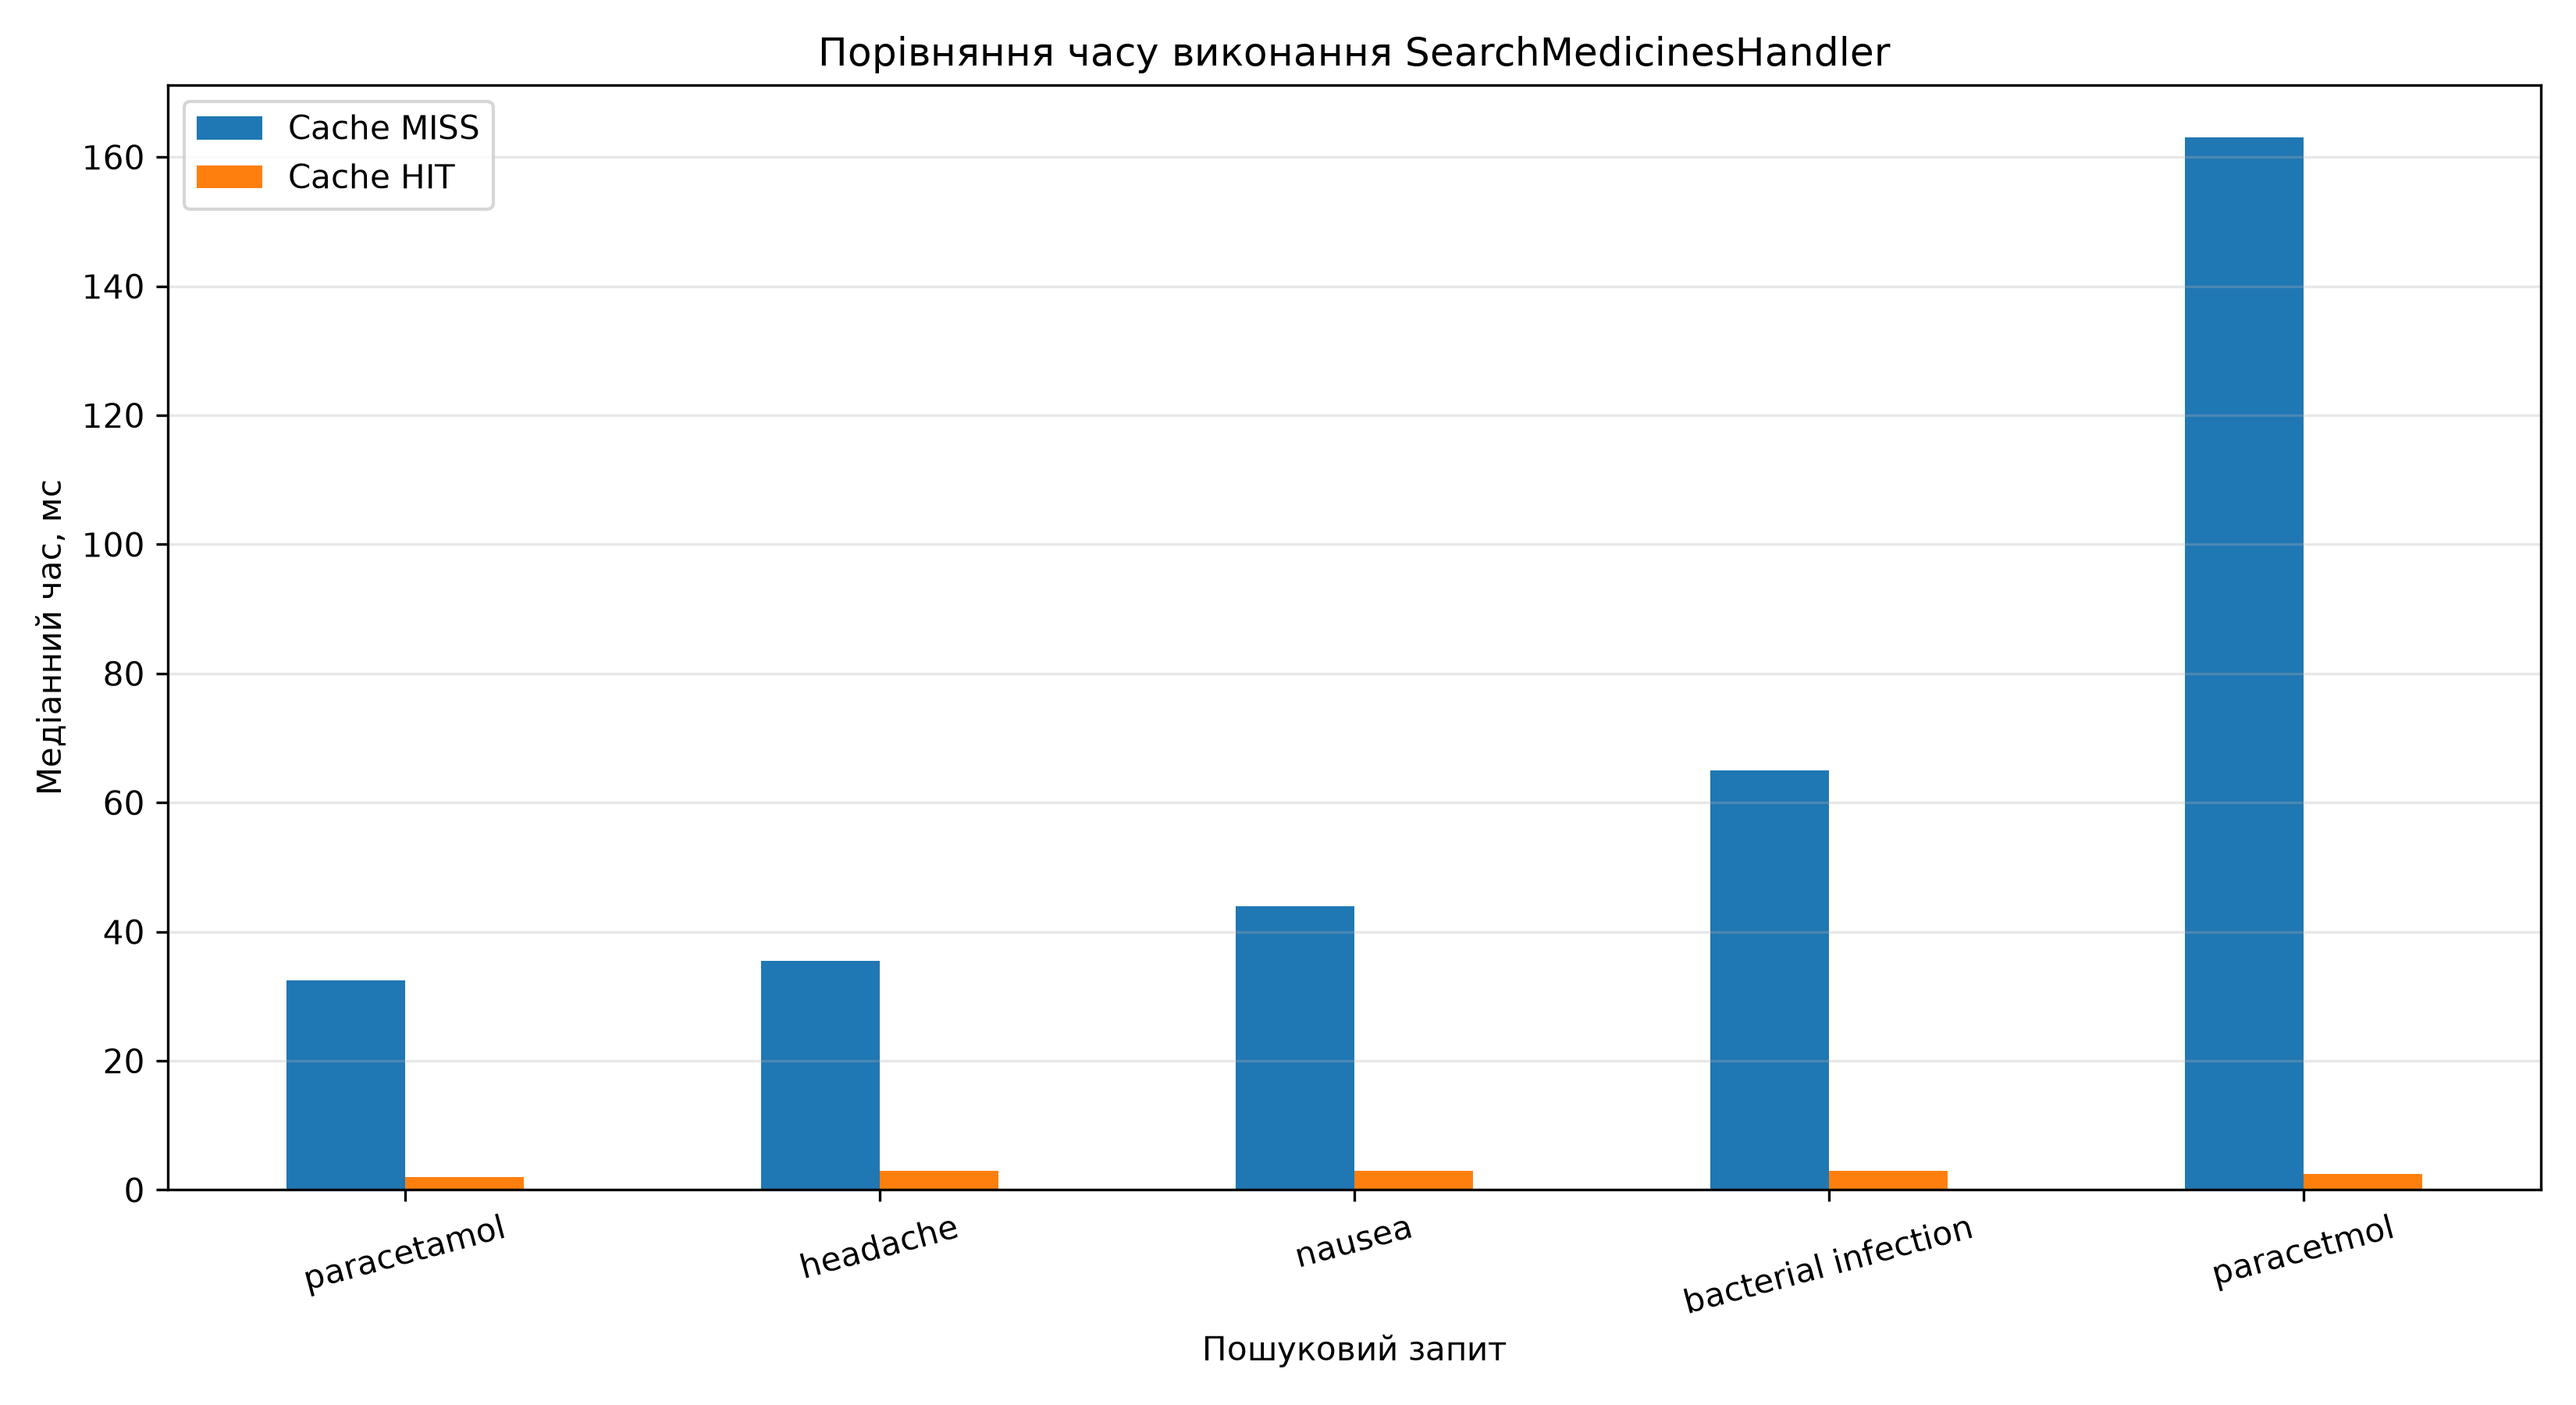
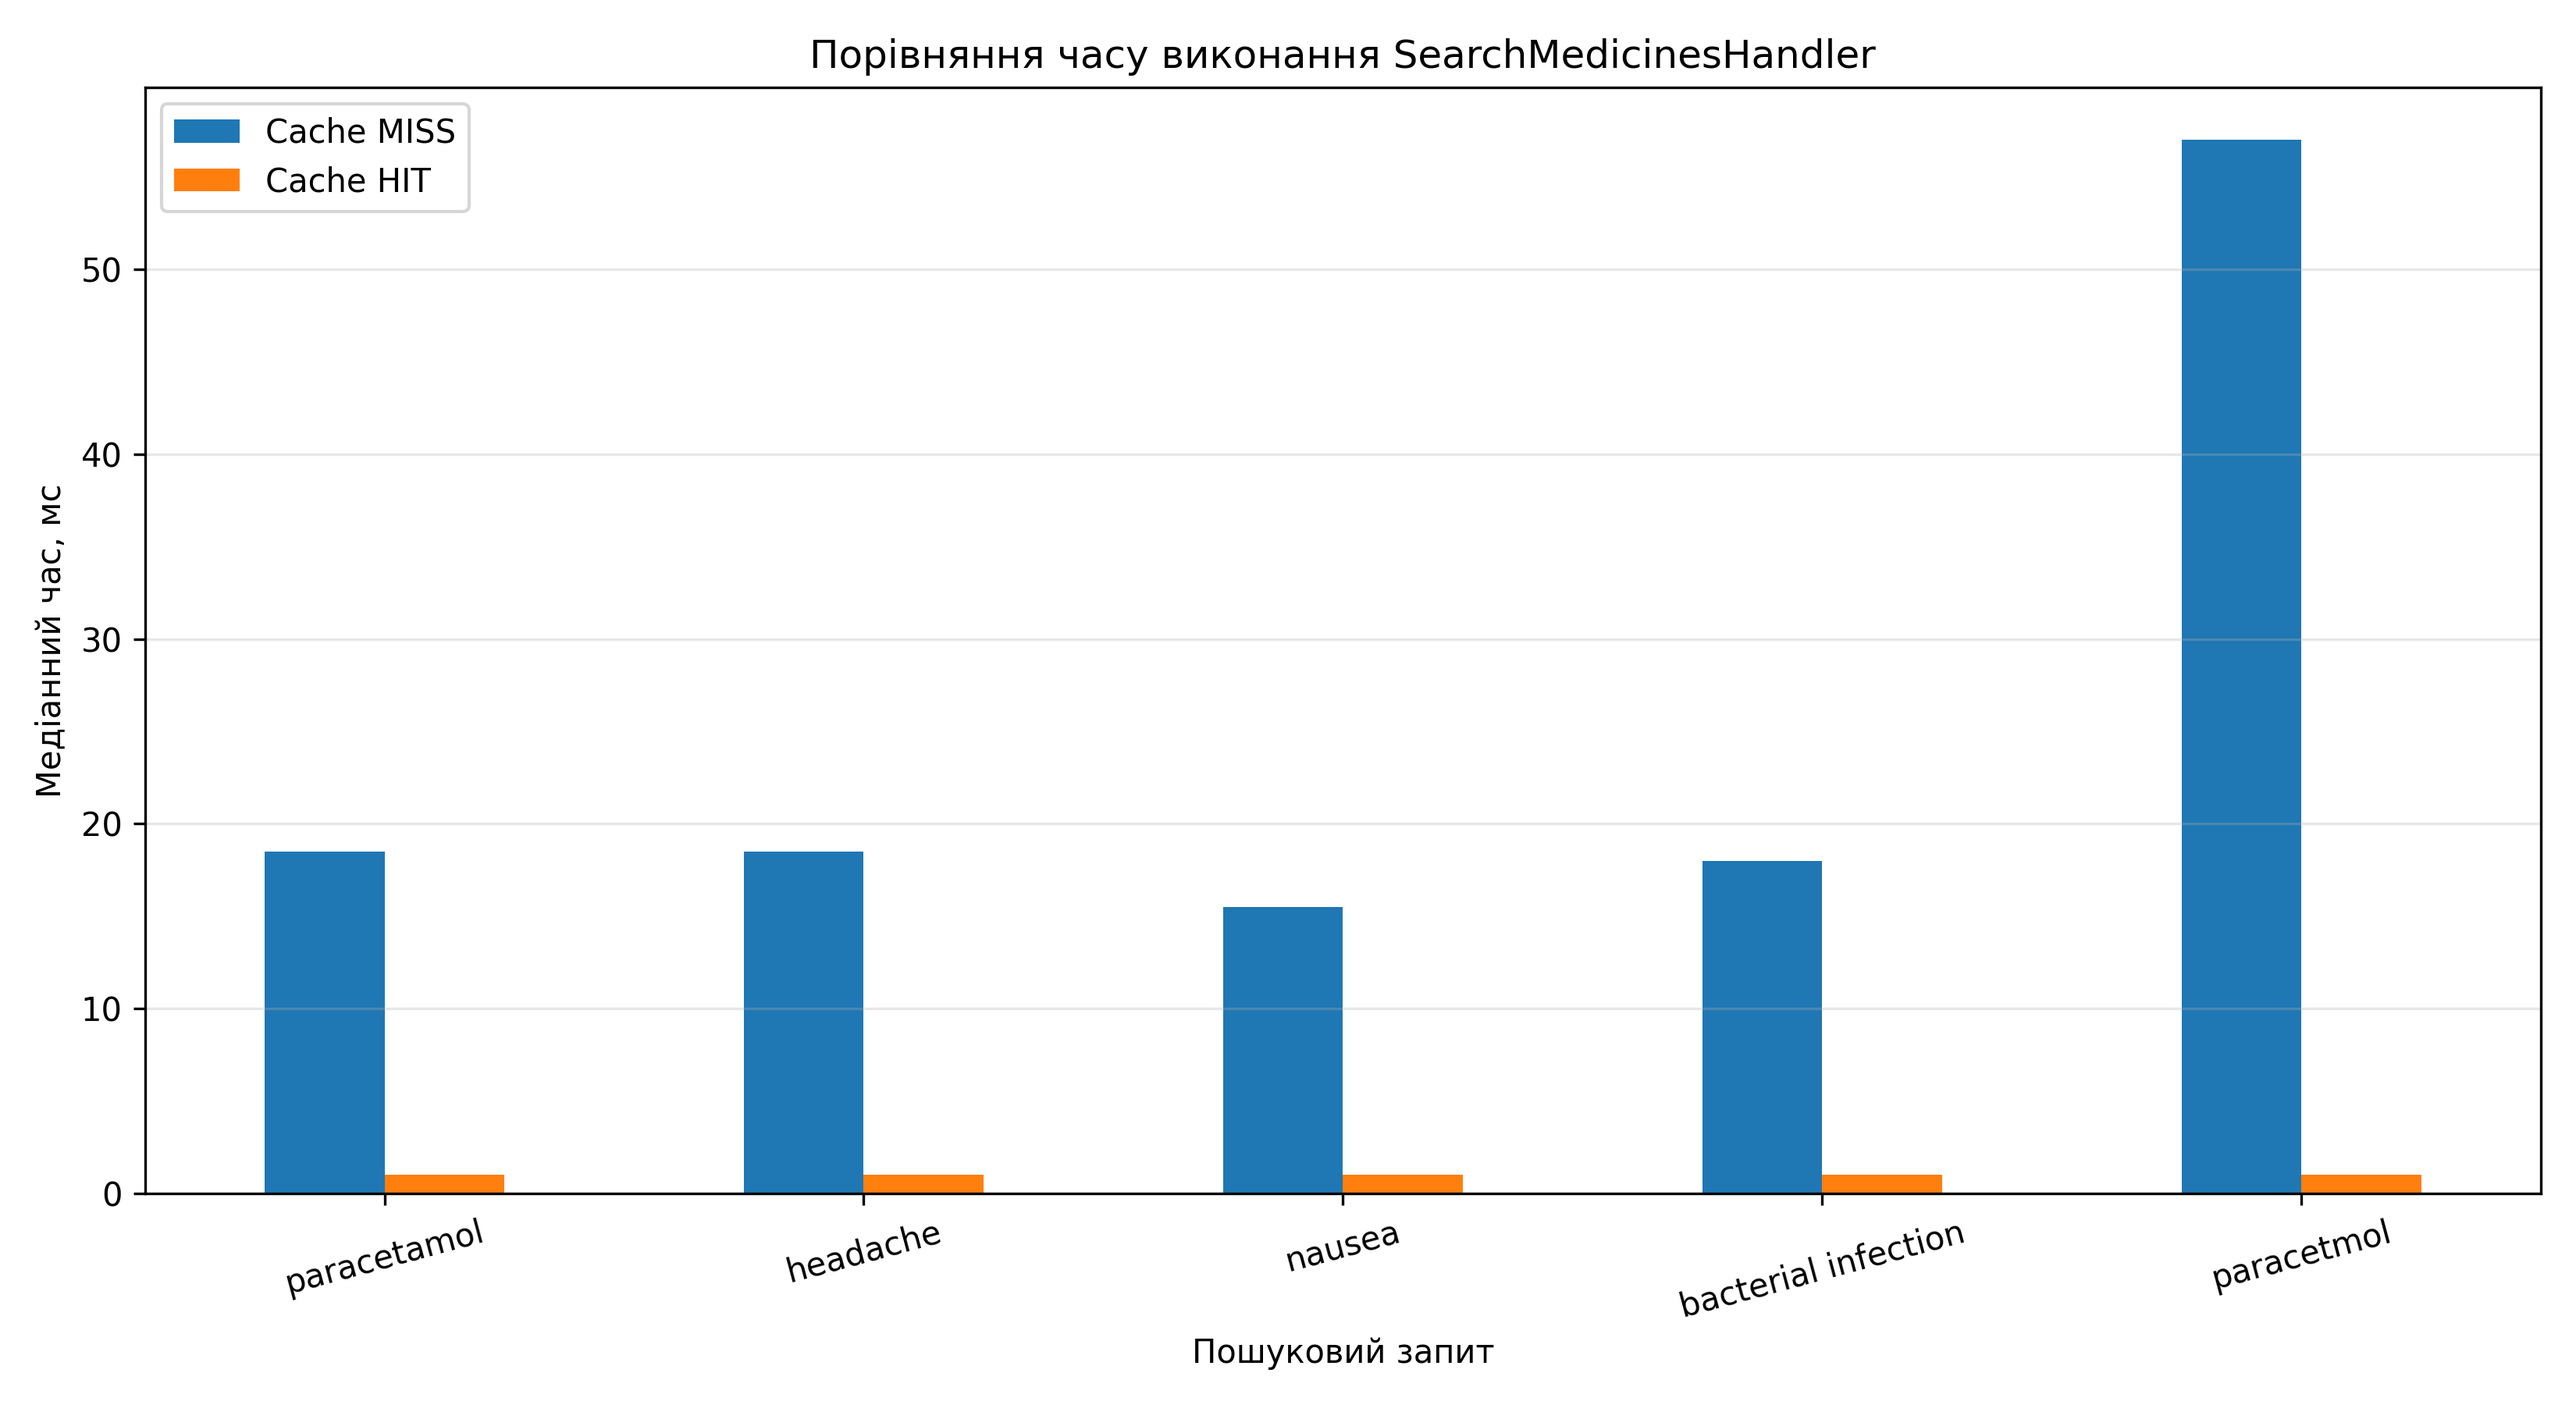
Stage 15 fixes: 503 when Elasticsearch is down, scan limit for filtered search, ES healthcheck, 127.0.0.1 in config, test fixes, new benchmark results

diff --git a/tests/unit/test_search_handler.py b/tests/unit/test_search_handler.py
@@ -86,6 +86,11 @@ async def test_filters_continue_into_next_batch(env):
 async def test_preserves_ranking_and_skips_missing_documents(env):
     first, second, missing = [make_medicine(name) for name in ("first", "second", "missing")]
     batches(env, [make_hit(first, 30), make_hit(missing, 20), make_hit(second, 10)])
+    env.documents.by_ids.return_value = [second, first]  # інший порядок, missing відсутній
+    result = await env.handler.handle(SearchQuery(raw="test", limit=10))
+    assert [i.medicine_id for i in result.items] == [first.medicine_id, second.medicine_id]
+    assert [i.score for i in result.items] == [30.0, 10.0]
+    assert result.total == 2
 
 async def test_no_matches_returns_empty_result(env):
     batches(env)
@@ -143,3 +148,24 @@ def test_cache_key_includes_filters_and_limit(env):
     assert key("test", {}, 10) != key("test", {"is_prescription": False}, 10)
 
     assert key("test", {}, 10) != key("other", {}, 10)
+
+async def test_selective_filter_stops_after_scan_limit(env, monkeypatch):
+    import app.application.queries.search_medicines_handler as module
+    monkeypatch.setattr(module, "MAX_SCANNED_HITS", 4)
+    expensive = [make_medicine(f"e{i}", 999.0) for i in range(10)]
+    batches(env, *[[make_hit(m)] * 1 for m in expensive])
+    env.documents.by_ids.side_effect = [[m] for m in expensive]
+    result = await env.handler.handle(SearchQuery(raw="test", filters={"price_max": 1}, limit=5))
+    assert result.items == []
+    assert env.documents.by_ids.await_count == 4
+
+
+async def test_index_error_propagates_as_unavailable(env):
+    from app.domain.errors import SearchUnavailableError
+
+    async def broken(*args, **kwargs):
+        raise SearchUnavailableError("down")
+        yield  # pragma: no cover
+    env.index.search_batches.side_effect = broken
+    with pytest.raises(SearchUnavailableError):
+        await env.handler.handle(SearchQuery(raw="test"))

diff --git a/app/application/queries/search_medicines_handler.py b/app/application/queries/search_medicines_handler.py
@@ -14,6 +14,10 @@ from app.domain.services.query_normalizer import QueryNormalizer
 
 logger = logging.getLogger(__name__)
 
+# Верхня межа переглянутих збігів ES при пост-фільтрації (захист від повного проходу індексу).
+MAX_SCANNED_HITS = 2000
+
+
 class SearchMedicinesHandler(SearchMedicines):
     def __init__(self, search_index: SearchIndex, cache: CacheStore,
                  documents: DocumentRepository, metrics: MetricsSink,
@@ -105,6 +109,7 @@ class SearchMedicinesHandler(SearchMedicines):
         items = []
 
         batch_size = 200 if filters else query.limit
+        scanned = 0
 
         async for hits in self._search_index.search_batches(normalized, batch_size=batch_size):
 
@@ -112,6 +117,7 @@ class SearchMedicinesHandler(SearchMedicines):
             ids = [hit.medicine_id for hit in hits]
 
             medicines = await self._documents.by_ids(ids)
+            scanned += len(hits)
 
             medicines_by_id = {medicine.medicine_id: medicine for medicine in medicines}
 
@@ -145,7 +151,7 @@ class SearchMedicinesHandler(SearchMedicines):
                 if len(items) >= query.limit:
                     break
 
-            if len(items) >= query.limit:
+            if len(items) >= query.limit or scanned >= MAX_SCANNED_HITS:
                 break
 
         # Формування підсумкового результату
@@ -159,4 +165,4 @@ class SearchMedicinesHandler(SearchMedicines):
             logger.warning("Не вдалося зберегти результат у Redis", exc_info=True)
 
         # Запис метрик та повернення результатів
-        return await self._finish(result, query.raw, normalized, False, started)
+        return await self._finish(result, query.raw, normalized, False, started)

diff --git a/tests/integration/test_search_integration.py b/tests/integration/test_search_integration.py
@@ -24,6 +24,8 @@ from app.presentation.rest.search_controller import SearchController
 async def elastic():
     name = f"medicine_it_{uuid4().hex}"
     async with AsyncElasticsearch("http://127.0.0.1:9200", request_timeout=30) as client:
+        if not await client.ping():
+            pytest.skip("Elasticsearch недоступний (127.0.0.1:9200)")
         adapter = SearchIndexAdapter(client, name)
         try:
             await adapter.ensure_index()
@@ -37,7 +39,10 @@ async def redis_client():
     client = Redis.from_url("redis://127.0.0.1:6379", decode_responses=True,
                             socket_connect_timeout=5, socket_timeout=5)
     try:
-        assert await client.ping()
+        try:
+            await client.ping()
+        except Exception as exc:
+            pytest.skip(f"Redis недоступний (127.0.0.1:6379): {exc}")
         yield client
     finally:
         await client.aclose()
@@ -48,7 +53,10 @@ async def mongo():
     name = f"medicine_it_{uuid4().hex}"
     client = AsyncMongoClient("mongodb://127.0.0.1:27017", serverSelectionTimeoutMS=5000)
     try:
-        await client.admin.command("ping")
+        try:
+            await client.admin.command("ping")
+        except Exception as exc:
+            pytest.skip(f"MongoDB недоступна (127.0.0.1:27017): {exc}")
         try:
             yield client, name
         finally:
@@ -168,4 +176,4 @@ async def test_search_api_miss_hit_and_filters(elastic, redis_client, mongo):
         assert sorted(log["cache_hit"] for log in logs) == [False, True]
         assert all(log["results_count"] == 1 for log in logs)
     finally:
-        await redis_client.delete(key)
+        await redis_client.delete(key)

diff --git a/app/infrastructure/persistence/search_index_adapter.py b/app/infrastructure/persistence/search_index_adapter.py
@@ -4,7 +4,10 @@ from __future__ import annotations
 from typing import TYPE_CHECKING, Any, AsyncIterator
 from uuid import UUID
 
+from elasticsearch import ApiError, TransportError
 from elasticsearch.helpers import async_bulk
+
+from app.domain.errors import SearchUnavailableError
 
 from app.domain.entities.search_document import SearchDocument, SearchHit
 from app.domain.ports.outbound.search_index import SearchIndex
@@ -138,9 +141,10 @@ class SearchIndexAdapter(SearchIndex):
                 if search_after is not None:
                     params["search_after"] = search_after
 
-                response = await self._client.search(
-                    **params
-                )
+                try:
+                    response = await self._client.search(**params)
+                except (ApiError, TransportError) as exc:
+                    raise SearchUnavailableError("Elasticsearch недоступний") from exc
                 if response.get("timed_out"):
                     raise TimeoutError("Перевищено час виконання пошуку")
 
@@ -200,4 +204,4 @@ class SearchIndexAdapter(SearchIndex):
             id = str(medicine_id)
         )
 
-        return response.get("result") == "deleted"
+        return response.get("result") == "deleted"

diff --git a/app/presentation/rest/search_controller.py b/app/presentation/rest/search_controller.py
@@ -2,10 +2,11 @@
 """REST: повнотекстовий пошук препаратів."""
 from __future__ import annotations
 
-from fastapi import APIRouter, Query
+from fastapi import APIRouter, HTTPException, Query
 
 from app.application.dto.search import SearchQuery, SearchResult
 from app.application.ports.inbound.search_medicines import SearchMedicines
+from app.domain.errors import SearchUnavailableError
 
 
 class SearchController:
@@ -33,4 +34,8 @@ class SearchController:
 
         query = SearchQuery(raw=q, filters=filters, limit=limit)
 
-        return await self._search.handle(query)
+        try:
+            return await self._search.handle(query)
+        except (SearchUnavailableError, TimeoutError) as exc:
+            raise HTTPException(status_code=503,
+                                detail="Повнотекстовий пошук тимчасово недоступний") from exc

diff --git a/tests/unit/test_search_index.py b/tests/unit/test_search_index.py
@@ -74,3 +74,10 @@ async def test_timeout_is_not_treated_as_empty_result(client):
     client.search.return_value = {"timed_out": True, "hits": {"hits": []}}
     with pytest.raises(TimeoutError):
         await SearchIndexAdapter(client).search("test")
+
+async def test_transport_error_becomes_search_unavailable(client):
+    from elasticsearch import TransportError
+    from app.domain.errors import SearchUnavailableError
+    client.search.side_effect = TransportError("connection refused")
+    with pytest.raises(SearchUnavailableError):
+        await SearchIndexAdapter(client).search("test")

diff --git a/app/domain/errors.py b/app/domain/errors.py
@@ -19,3 +19,7 @@ class ValidationError(DomainError):
     def __init__(self, errors: list[str]) -> None:
         super().__init__("; ".join(errors))
         self.errors = errors
+
+
+class SearchUnavailableError(DomainError):
+    """Пошуковий індекс недоступний або не відповів вчасно."""
